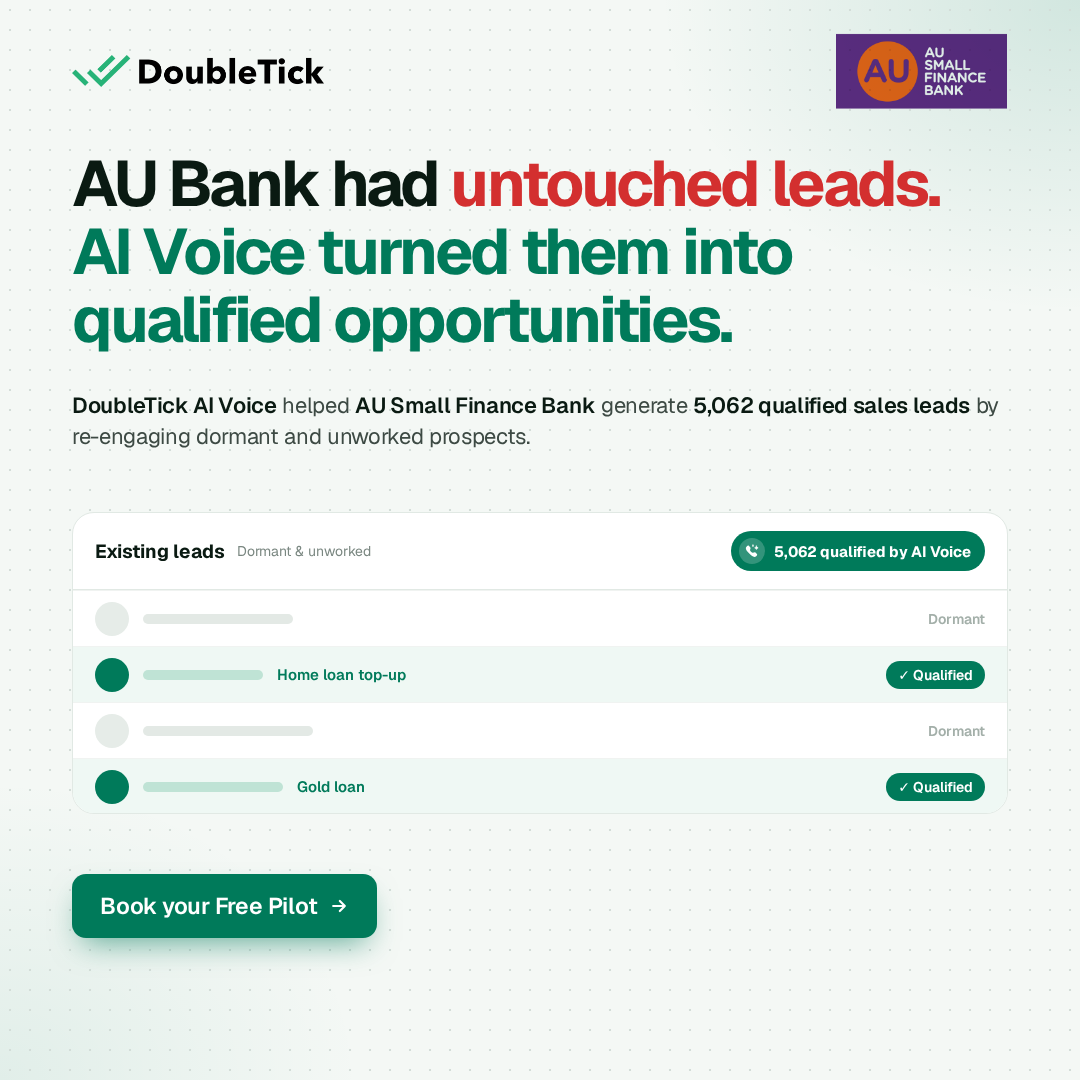
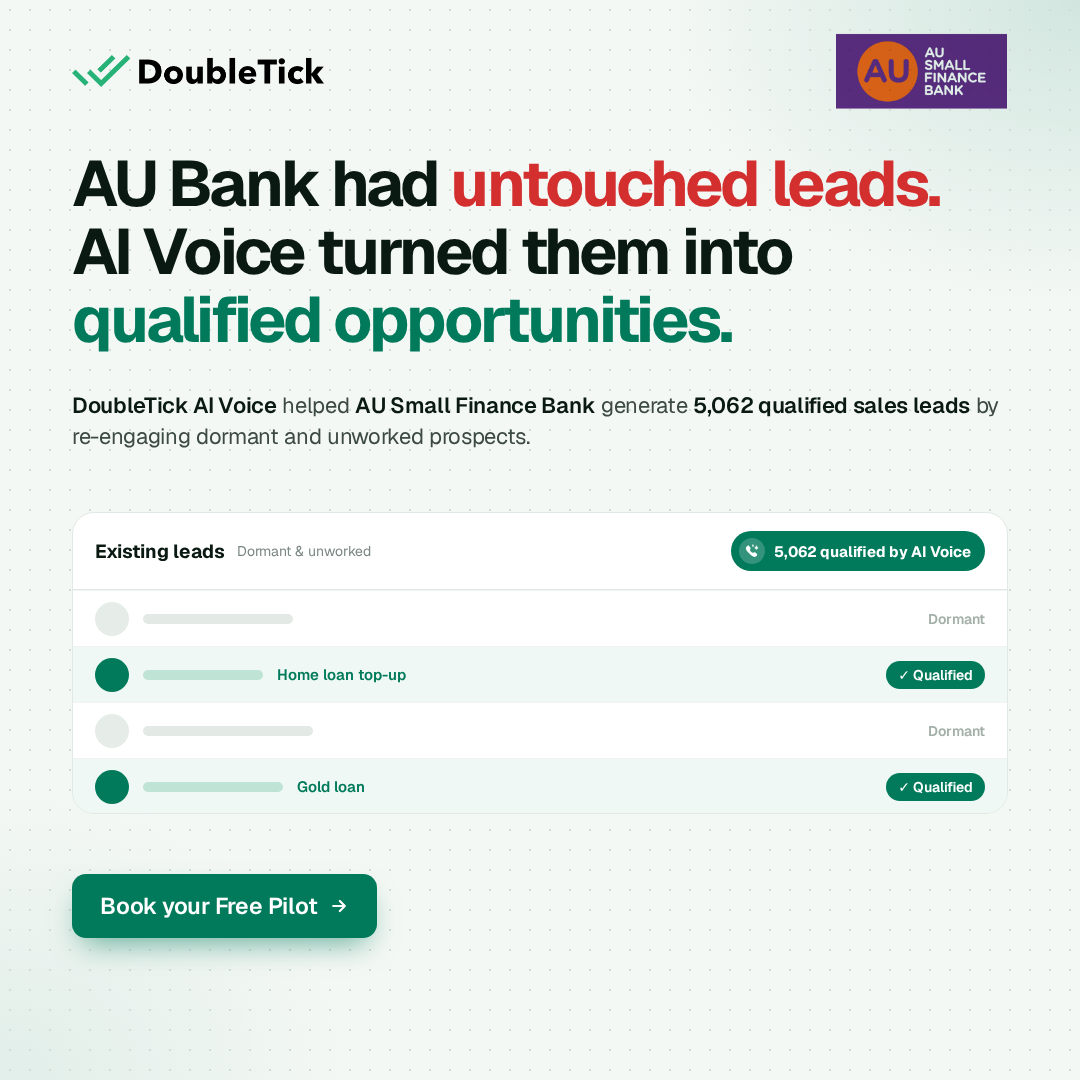
feat: AU v10 hook line 2 in ink color
Claude-Session: https://claude.ai/code/session_013Hi5o4KgvuLbKTeGkStAKX

Changed region(s): [[0.0611, 0.2139, 0.7333, 0.275]]

diff --git a/ads/doubletick-case-au-v10/index.html b/ads/doubletick-case-au-v10/index.html
@@ -43,7 +43,7 @@
 <body><div class="ad">
   <div class="top"><img class="logo" src="doubletick-logo.webp" alt="DoubleTick" /><img class="client" src="au-bank-logo.png" alt="AU Small Finance Bank" /></div>
 
-  <h1>AU Bank had <span style="color:#D32F2F">untouched leads.</span><br/><em>AI Voice turned them into</em><br/><em>qualified opportunities.</em></h1>
+  <h1>AU Bank had <span style="color:#D32F2F">untouched leads.</span><br/>AI Voice turned them into<br/><em>qualified opportunities.</em></h1>
   <p class="sub"><b>DoubleTick AI Voice</b> helped <b>AU Small Finance Bank</b> generate <b>5,062 qualified sales leads</b> by re-engaging dormant and unworked prospects.</p>
 
   <div class="vis">
